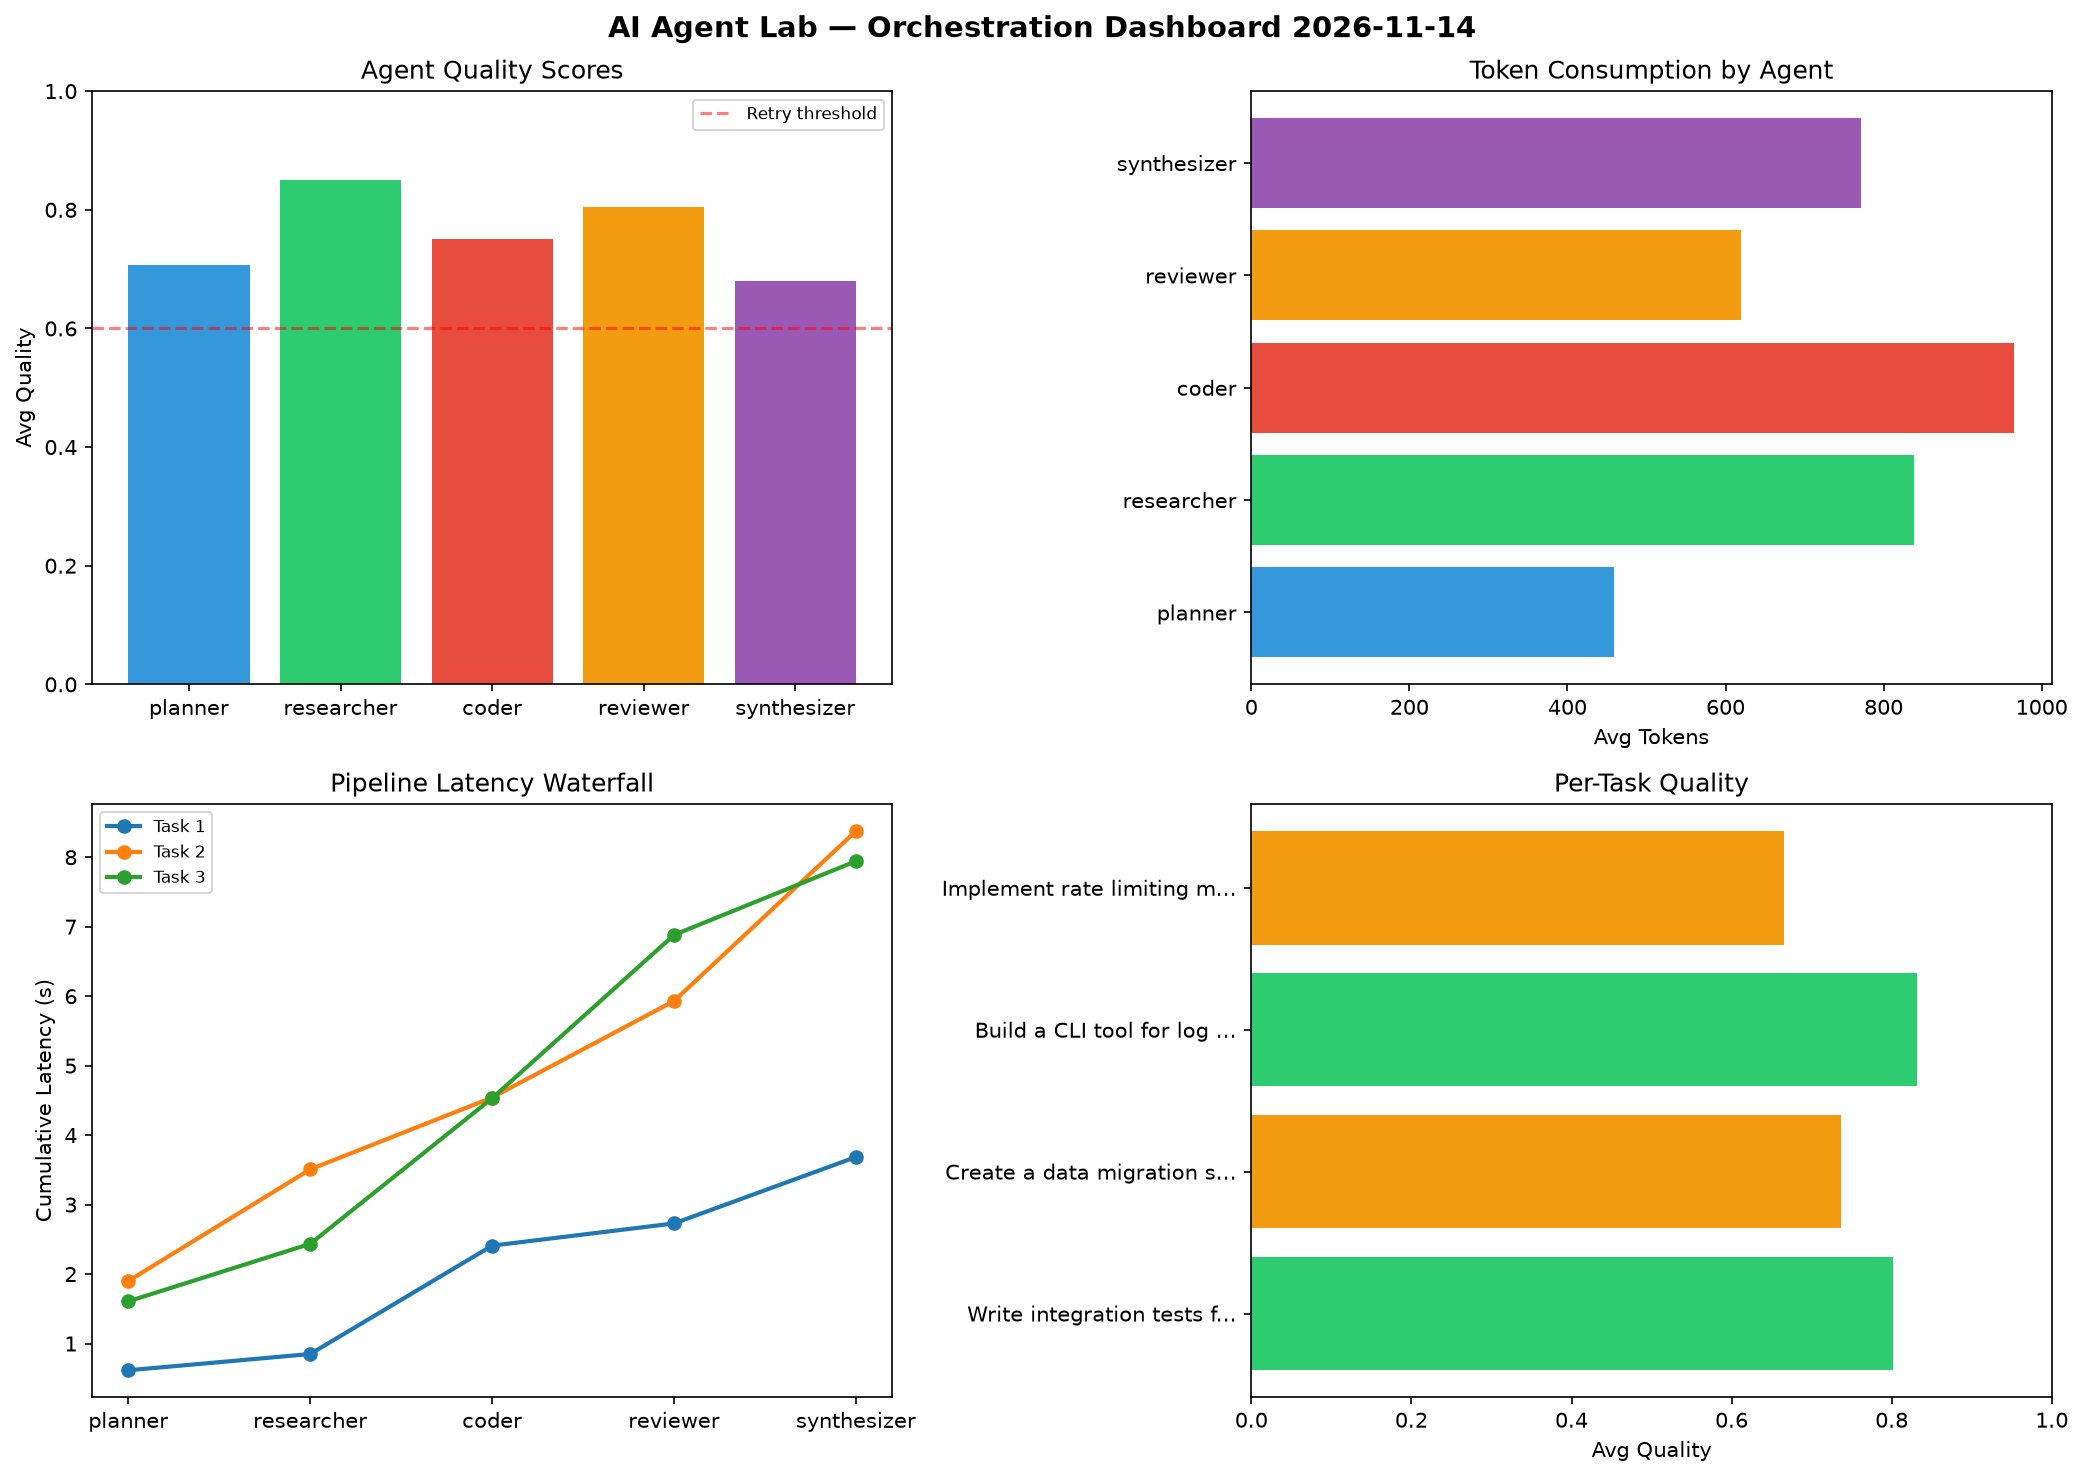
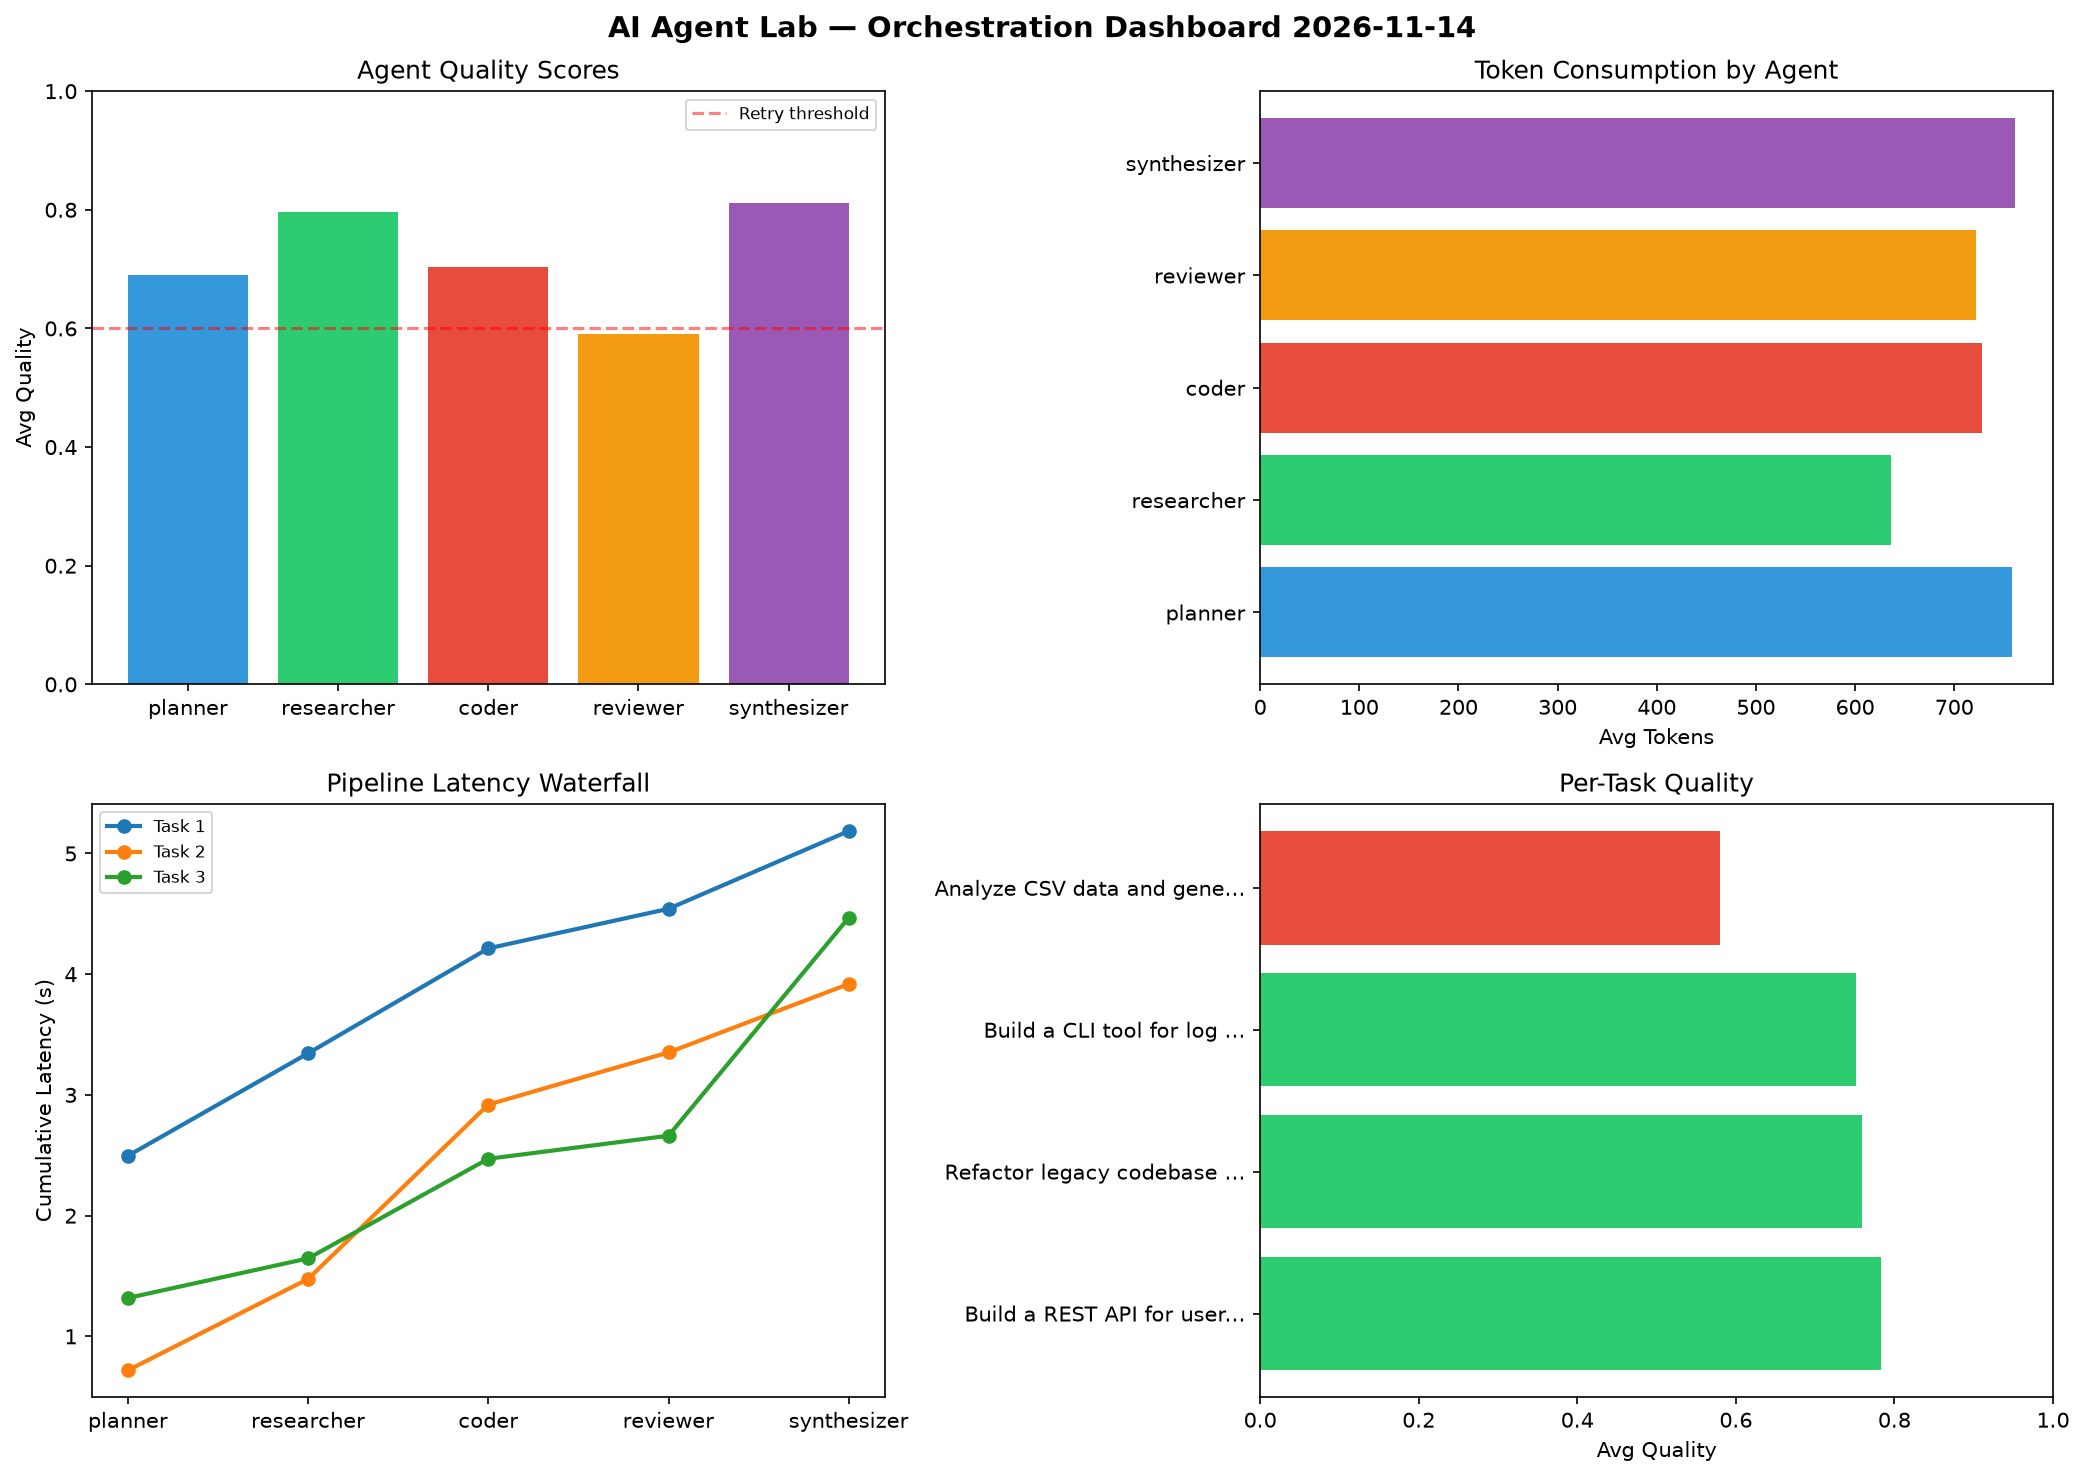
ai-agent-lab: orchestration run 2026-11-14T15:06

diff --git a/logs/2026-11-14.md b/logs/2026-11-14.md
@@ -1,6 +1,6 @@
 # AI Agent Lab — Orchestration Report 2026-11-14
 
-**Run ID:** `13a8f01606` | **Tasks:** 4 | **Avg Quality:** 0.759
+**Run ID:** `9b6282c3c4` | **Tasks:** 4 | **Avg Quality:** 0.718
 
 ![Dashboard](2026-11-14_dashboard.png)
 
@@ -8,52 +8,52 @@
 
 | Metric | Value |
 |--------|-------|
-| avg_latency | 6.105 |
-| total_tokens | 14611 |
-| avg_quality | 0.759 |
+| avg_latency | 5.026 |
+| total_tokens | 14421 |
+| avg_quality | 0.718 |
 
 ## Delta vs Yesterday
 
 | Metric | Today | Yesterday | Change |
 |--------|-------|-----------|--------|
-| avg_latency | 6.105 | 6.528 | 📉 -6.5% |
-| total_tokens | 14611 | 14160 | 📈 3.2% |
-| avg_quality | 0.759 | 0.789 | 📉 -3.8% |
+| avg_latency | 5.026 | 6.528 | 📉 -23.0% |
+| total_tokens | 14421 | 14160 | 📈 1.8% |
+| avg_quality | 0.718 | 0.789 | 📉 -9.0% |
 
 ## Pipeline Results
 
-### Write integration tests for payment processing module
+### Build a REST API for user authentication
 | Agent | Quality | Latency | Tokens | Status |
 |-------|---------|---------|--------|--------|
-| planner | 0.615 | 0.615s | 481 | success |
-| researcher | 0.994 | 0.234s | 758 | success |
-| coder | 0.831 | 1.56s | 1000 | success |
-| reviewer | 0.982 | 0.32s | 464 | success |
-| synthesizer | 0.582 | 0.956s | 747 | needs_retry |
+| planner | 0.702 | 2.496s | 630 | success |
+| researcher | 0.67 | 0.849s | 717 | success |
+| coder | 0.894 | 0.869s | 583 | success |
+| reviewer | 0.732 | 0.328s | 836 | success |
+| synthesizer | 0.918 | 0.644s | 420 | success |
 
-### Create a data migration script for schema v2
+### Refactor legacy codebase to use dependency injection
 | Agent | Quality | Latency | Tokens | Status |
 |-------|---------|---------|--------|--------|
-| planner | 0.728 | 1.9s | 243 | success |
-| researcher | 0.512 | 1.607s | 720 | needs_retry |
-| coder | 0.864 | 1.034s | 916 | success |
-| reviewer | 0.966 | 1.39s | 429 | success |
-| synthesizer | 0.613 | 2.446s | 537 | success |
+| planner | 0.865 | 0.719s | 975 | success |
+| researcher | 0.936 | 0.757s | 863 | success |
+| coder | 0.511 | 1.444s | 797 | needs_retry |
+| reviewer | 0.504 | 0.432s | 277 | needs_retry |
+| synthesizer | 0.978 | 0.567s | 962 | success |
 
 ### Build a CLI tool for log analysis
 | Agent | Quality | Latency | Tokens | Status |
 |-------|---------|---------|--------|--------|
-| planner | 0.959 | 1.607s | 617 | success |
-| researcher | 0.989 | 0.828s | 1059 | success |
-| coder | 0.7 | 2.096s | 848 | success |
-| reviewer | 0.614 | 2.351s | 1101 | success |
-| synthesizer | 0.892 | 1.062s | 795 | success |
+| planner | 0.695 | 1.318s | 951 | success |
+| researcher | 0.901 | 0.328s | 325 | success |
+| coder | 0.906 | 0.825s | 494 | success |
+| reviewer | 0.616 | 0.191s | 1004 | success |
+| synthesizer | 0.638 | 1.806s | 864 | success |
 
-### Implement rate limiting middleware
+### Analyze CSV data and generate statistical summary
 | Agent | Quality | Latency | Tokens | Status |
 |-------|---------|---------|--------|--------|
-| planner | 0.526 | 1.311s | 496 | needs_retry |
-| researcher | 0.909 | 0.709s | 816 | success |
-| coder | 0.605 | 0.115s | 1094 | success |
-| reviewer | 0.656 | 1.888s | 485 | success |
-| synthesizer | 0.633 | 0.391s | 1005 | success |
+| planner | 0.501 | 1.732s | 475 | needs_retry |
+| researcher | 0.679 | 0.877s | 640 | success |
+| coder | 0.5 | 1.27s | 1038 | needs_retry |
+| reviewer | 0.508 | 0.842s | 770 | needs_retry |
+| synthesizer | 0.712 | 1.808s | 800 | success |
